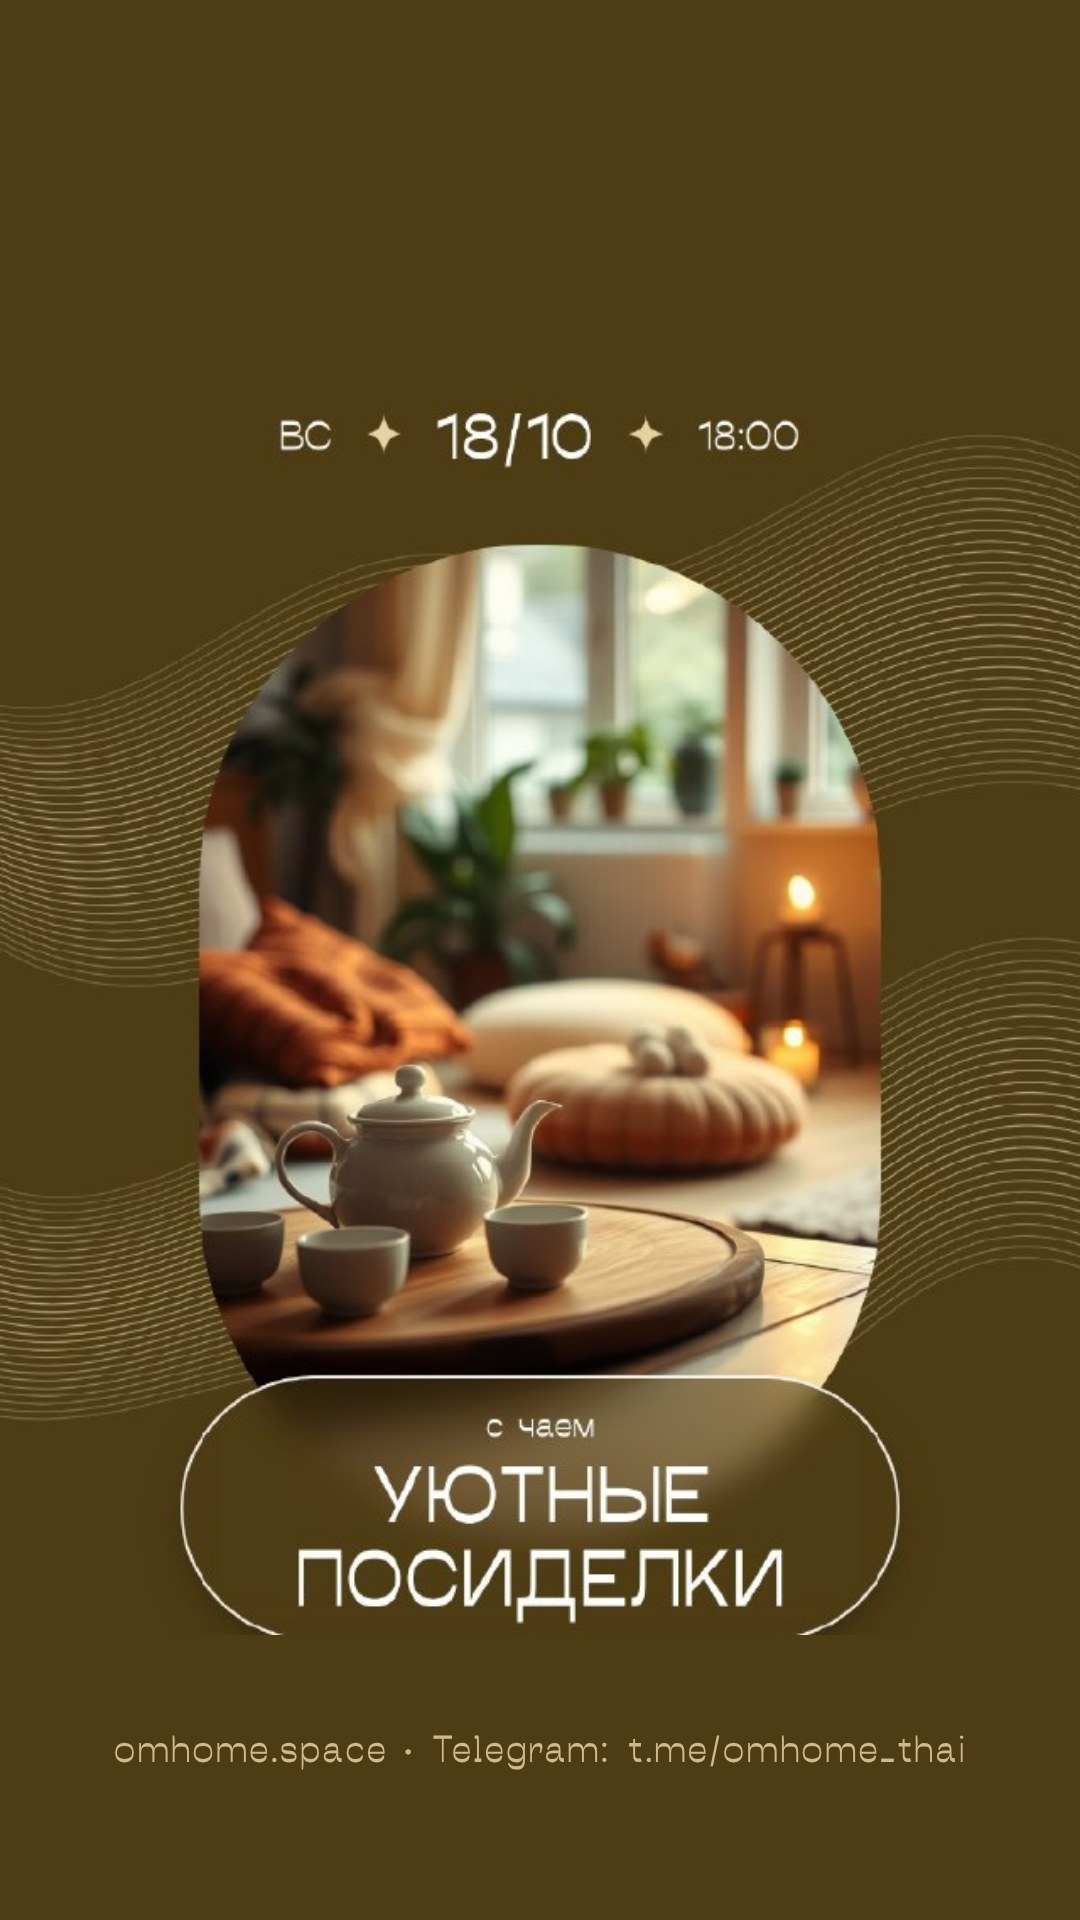
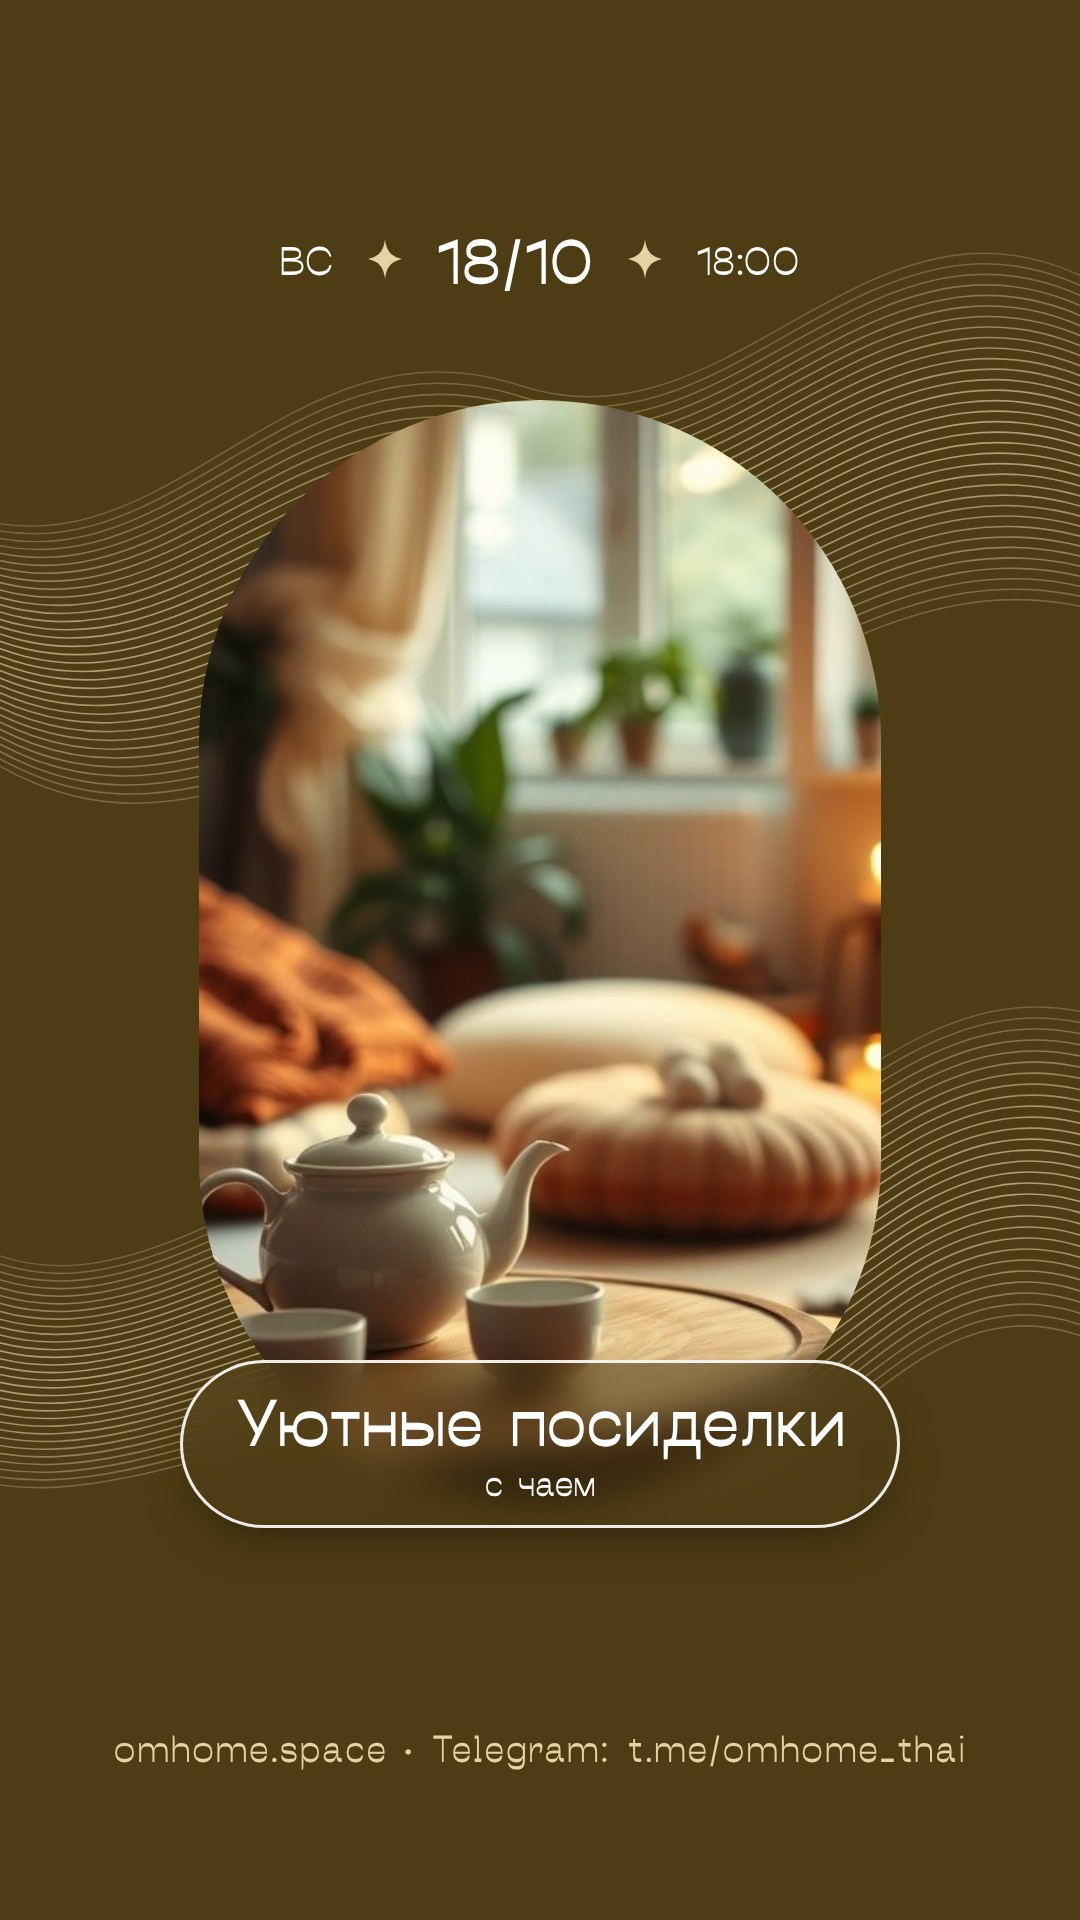
Афиша: формат («читка пьесы») мелко над названием, «с кем/с чем» — под ним; Gemini выносит имя фильма/пьесы в название; новая афиша посиделок
Claude-Session: https://claude.ai/code/session_012TFz3RjYioqyH9M1Kp3A2v

diff --git a/automation/poster/template.html b/automation/poster/template.html
@@ -206,15 +206,18 @@
       const pill = document.getElementById('pill');
       if (p.subtitle) pill.classList.add('bordered');
       const title = document.createElement('div');
-      // The title is one line, large; a subtitle («с чаем», «с Дашей») goes below it, smaller.
+      // The title is one line, large. A subtitle saying who/what with («с чаем», «с Дашей») goes below it; a format
+      // («читка пьесы», «кинопоказ») goes above, small, over the name itself («Вишнёвый сад»).
       title.className = 'title';
       title.textContent = p.title;
       pill.append(title);
       if (p.subtitle) {
+        const below = /^(с|со|и|для|вместе)\s/i.test(p.subtitle);
         const subtitle = document.createElement('div');
-        subtitle.className = 'subtitle below';
+        subtitle.className = below ? 'subtitle below' : 'subtitle';
         subtitle.textContent = p.subtitle;
-        pill.append(subtitle);
+        if (below) pill.append(subtitle);
+        else pill.prepend(subtitle);
       }
       // A long title shrinks until it fits the pill in one line — measured once the brand font is loaded.
       document.fonts.ready.then(() => {
